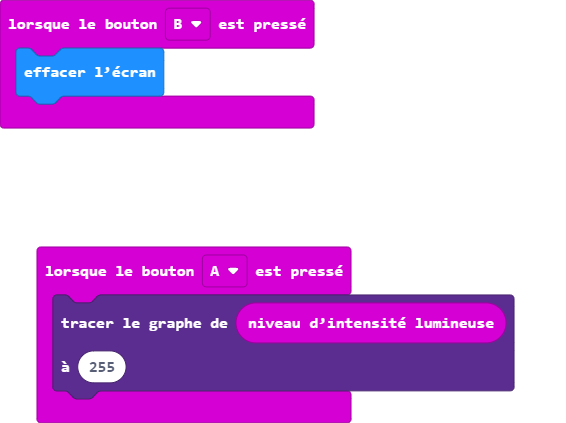
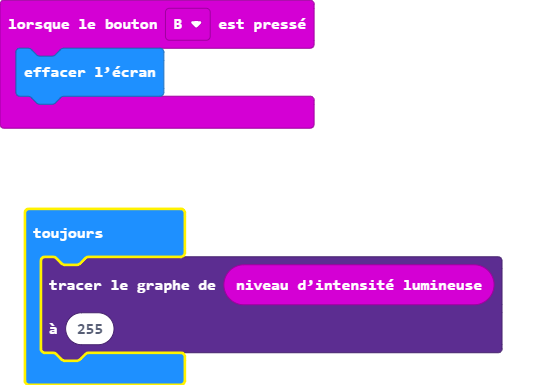
Mise à jour main.blocks, main.ts

Changed region(s): [[0.0307, 0.5299, 0.9206, 1.0], [0.0, 0.0, 0.583, 0.3429]]

diff --git a/main.ts b/main.ts
@@ -1,9 +1,9 @@
-input.onButtonPressed(Button.A, function () {
+input.onButtonPressed(Button.B, function () {
+    basic.clearScreen()
+})
+basic.forever(function () {
     led.plotBarGraph(
     input.lightLevel(),
     255
     )
-})
-input.onButtonPressed(Button.B, function () {
-    basic.clearScreen()
 })
